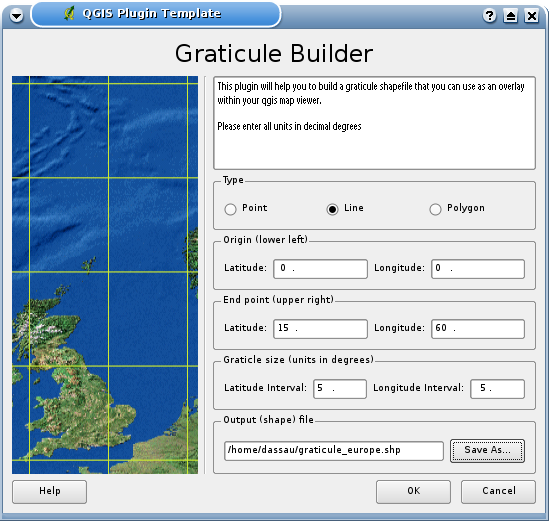
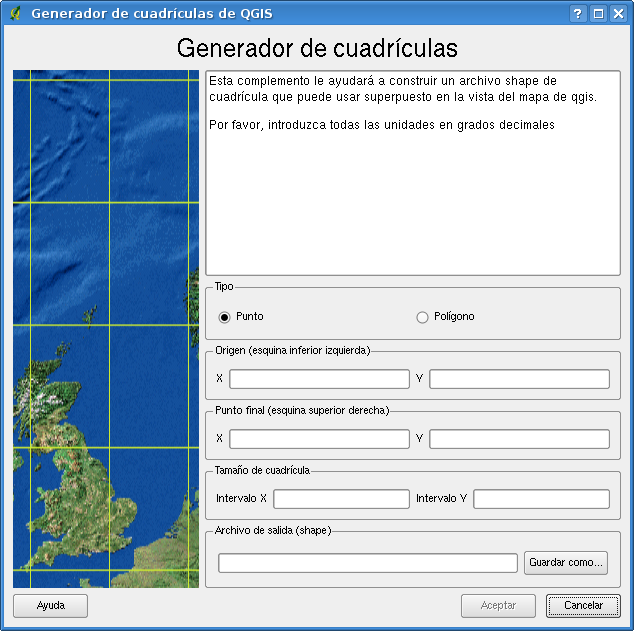
Graticule creator plugin translated into Spanish, including screeshot.
git-svn-id: https://svn.osgeo.org/qgis/docs/branches/0.9.1@8237 c8812cc2-4d05-0410-92ff-de0c093fc19c

diff --git a/spanish/user_guide/plugins_graticule_creator.tex b/spanish/user_guide/plugins_graticule_creator.tex
@@ -1,31 +1,28 @@
-\subsection{Using the Graticule Creator Plugin}
+\subsection{Usar el complemento generador de cuadrículas}
 
-The graticule creator allows to create a ``grid'' of points, line, or
-polygons to cover our area of interest. All units must be entered in
-decimal degrees. The output is a shapefile which can be projected on the
-fly to match your other data.
+El generador de cuadrículas permite crear una «malla» de puntos, líneas o
+polígonos que cubra nuestro área de interés. Se deben introducir todas las
+unidades en grados decimales. La salida es un archivo shape que se puede
+proyectar al vuelo para ajustarlo a sus otros datos.
 
 \begin{figure}[ht]
 \begin{center}
-  \caption{Create a graticule layer}\label{fig:graticule}\smallskip
+  \caption{Crear una capa de cuadrícula}\label{fig:graticule}\smallskip
   \includegraphics[scale=0.5]{graticule}
 \end{center}
 \end{figure}
 
-Here is an example how to create a graticule:
+Aquí hay un ejemplo de cómo crear una cuadrícula:
 
 \begin{enumerate}
-\item Make sure the plugin is loaded
-\item Click on the \textsl{Graticule Creator} tool on the plugins toolbar
-\item Choose the type of graticule you which to create: point, line, or
-  polygon
-\item Enter the latitude and longitude for the lower left and upper right
-  corners of the graticule
-\item Enter the interval to be used in constructing the grid. You can
-  enter different values for the X and Y directions (longitude, latitude)
-\item Choose the name and location of the shapefile to be created
-\item Click \textsl{OK} to create the graticule and add it to the map
-  canvas
+\item Asegúrese de que el complemento está cargado.
+\item Pulse en la herramienta \textsl{Generador de cuadrículas} en la barra de herramientas de complementos.
+\item Seleccione el tipo de cuadrícula que quiera crear: punto, línea o polígono.
+\item Introduzca la latitud y la longitud para las esquinas inferior izquierda y superior derecha de la cuadrícula.
+\item Introduzca el intervalo a usar para construir la cuadrícula. Puede introducir
+  valores diferentes para las direcciones X e Y (longitud, latitud).
+\item Seleccione el nombre y la localización del archivo shape a crear.
+\item Pulse \textsl{Aceptar} para crear la cuadrícula y añadirla a la vista del mapa.
 \end{enumerate} 
 
 
